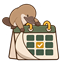
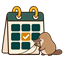
Restore the original calendar mascot silhouette

diff --git a/docs/STATUS.md b/docs/STATUS.md
@@ -2,7 +2,7 @@
 
 제목줄 클릭 영역 수정: Fisher와 같은 접기·닫기 겹침 원인이 공통 테마에 있어 제목줄 좌우 여백과 본문 스타일을 분리했다. 메인/업데이트 내역·개인 일정/알림/삭제 보조 화면에도 본문 여백을 유지한다. 별도→정규 Debug 경고0/오류0·244리소스·펄 내역/스모크 설정 정적 렌더를 확인했다. 실제 제목줄 클릭·기존 날짜 전환/저장 확인은 대기다. [근거](design/INTERACTION-DESIGN.md#제목줄-클릭-영역-수정-2026-11-15).
 
-개발본 **0.5.0.0**: 대표 아이콘은 원본 캐릭터를 직접 참조해 달력 위에서 큰 페이지를 넘기는 동작의 투명 그림으로 바꿨다. 글자/원형 배지/파란 배경을 제거하고 세 플러그인의 화풍을 맞췄다. 512/128/64px·스모크/펄 축소 확인 완료, 게시/실제 설치 목록 확인은 대기다. [원본·프롬프트](../assets/README.md). 사용자 견본/캡처에 따라 Fisher/Tweak과 같은 **스모크·펄 두 테마**로 줄이고 회색 명암·은빛 윤곽·금빛 강조와 업데이트 내역 표현을 통일했다. 월 제목/작은 안내는 표시 크기의 ManagedFontAtlas 폰트로 만들며 수동 확대/축소를 제거했다. 기존 밝은 값은 펄, 나머지는 스모크로 옮기고 월/선택/개인 상태는 유지한다. 빌드/리소스235키/오프라인 렌더와 실제 폰트·재로드 확인을 구분한다. [계약/확인](design/INTERACTION-DESIGN.md#스모크펄-두-테마와-선명한-글꼴-2026-11-15).
+개발본 **0.5.0.0**: 대표 아이콘은 원본 옆모습을 직접 편집해 달력 오른쪽에서 페이지를 넘기는 동작의 투명 그림으로 바꿨다. 글자/원형 배지/파란 배경을 제거하고 세 플러그인의 화풍을 맞췄다. 512/128/64px·스모크/펄 축소 확인 완료, 게시/실제 설치 목록 확인은 대기다. [원본·프롬프트](../assets/README.md). 사용자 견본/캡처에 따라 Fisher/Tweak과 같은 **스모크·펄 두 테마**로 줄이고 회색 명암·은빛 윤곽·금빛 강조와 업데이트 내역 표현을 통일했다. 월 제목/작은 안내는 표시 크기의 ManagedFontAtlas 폰트로 만들며 수동 확대/축소를 제거했다. 기존 밝은 값은 펄, 나머지는 스모크로 옮기고 월/선택/개인 상태는 유지한다. 빌드/리소스235키/오프라인 렌더와 실제 폰트·재로드 확인을 구분한다. [계약/확인](design/INTERACTION-DESIGN.md#스모크펄-두-테마와-선명한-글꼴-2026-11-15).
 
 후속 마감: 표면 미리보기/체크 무늬를 제거하고 세부 조정을 기본 접힘으로 묶었다. 세 플러그인의 설정 제목/내역 버튼→화면 설정·위 라벨/같은 폭의 필드→세부 조정과 구역 제목을 통일했다. 드래그 초안은 실제 UI 렌더에만 쓰고 완료 시 기존 경로로 한 번 저장하며 화면 이탈/외부 복원 시 초안을 버린다. 색조·기존 저장 값/형식은 유지한다. 별도→정규 빌드 경고0/오류0·Fisher1139/Calendar244/Tweak86리소스·두 테마/접힘/펼침/큰 글꼴 렌더 확인 완료. 실시간 조절·저장/재로드 실기는 대기다. 공통 읽은 내역 버튼 문구는 업데이트 내역 보기로 명확히 했다. 새 업데이트 표시는 유지한다.
 

diff --git a/assets/README.md b/assets/README.md
@@ -1,11 +1,11 @@
 # DuckbillCalendar 대표 아이콘
 
-2026-11-15 개발 후보: 기존 오리너구리의 얼굴/몸 비율을 유지하며 달력 위에 몸을 기울여 큰 페이지를 넘기는 자세로 바꿨다. 큰 달력·아홉 칸/체크 표시로 기능을 먼저 구분한다. 글자·원형 배지·파란 배경은 제거했고 Fisher/Tweak과 윤곽선·색감을 맞췄다.
+2026-11-15 개발 후보: 원본 옆모습을 직접 편집해 달력 오른쪽에서 짧은 앞발로 페이지를 넘기는 자세로 정리했다. 윗부분에 올라탄 이전 후보 대신 원본 얼굴/몸통 형태를 우선했다. 큰 달력·아홉 칸/체크 표시로 기능을 먼저 구분한다. 글자·원형 배지·파란 배경은 제거했고 Fisher/Tweak과 윤곽선·색감을 맞췄다.
 
 - duckbillcalendar-icon.png: 적용/배포용 512×512 RGBA 투명 PNG
 - source/duckbillcalendar-icon-master.png: built-in image_gen의 1254×1254 원본
 - previews/duckbillcalendar-128.png / duckbillcalendar-64.png: 실제 축소본. 스모크/펄 배경에서 기능 구분과 윤곽 확인
 - [icon-prompt.txt](icon-prompt.txt): 생성 도구/전체 프롬프트와 참조 이력
 
-기존 Calendar `71506ee`와 Fisher `aced4cc`의 원본 그림을 직접 참조했고 생성 후에는 alpha/비율을 유지해 크기만 정규화했다. README·설치 manifest IconUrl·빌드 출력 images/icon.png의 같은 경로를 유지한다. 현재 파일은 개발 후보이며 기존 공개 태그/Release/설치 JSON은 바꾸지 않았다.
+기존 Calendar `71506ee`의 원본 그림을 직접 편집 대상으로 사용했고 생성 후에는 alpha/비율을 유지해 크기만 정규화했다. README·설치 manifest IconUrl·빌드 출력 images/icon.png의 같은 경로를 유지한다. 현재 파일은 개발 후보이며 기존 공개 태그/Release/설치 JSON은 바꾸지 않았다.
 이전 자연스러운 자세(v7-natural)의 원형 아이콘/원본/프롬프트는 Git 이력에 남는다. 더 오래된 시안·중복 비교본은 기존 artifacts/design-archive/의 보존 기록을 따른다.
